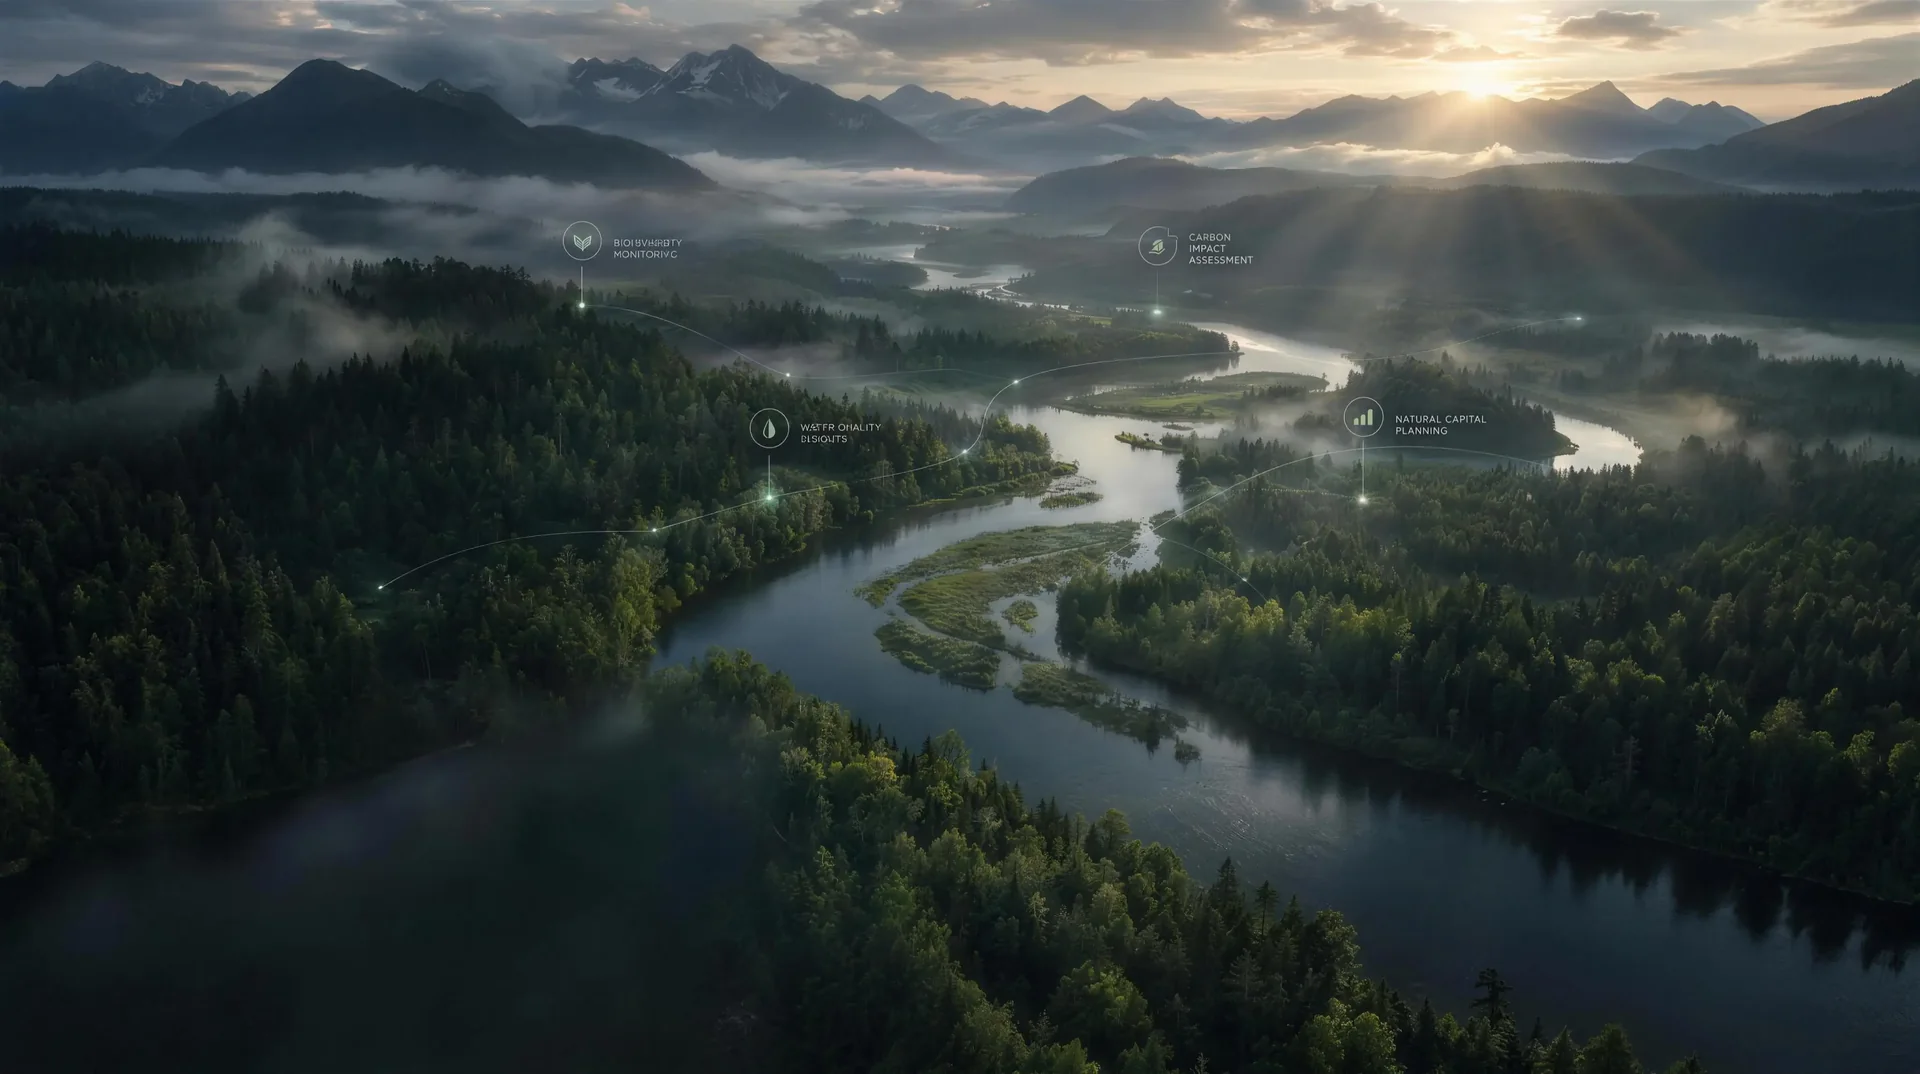
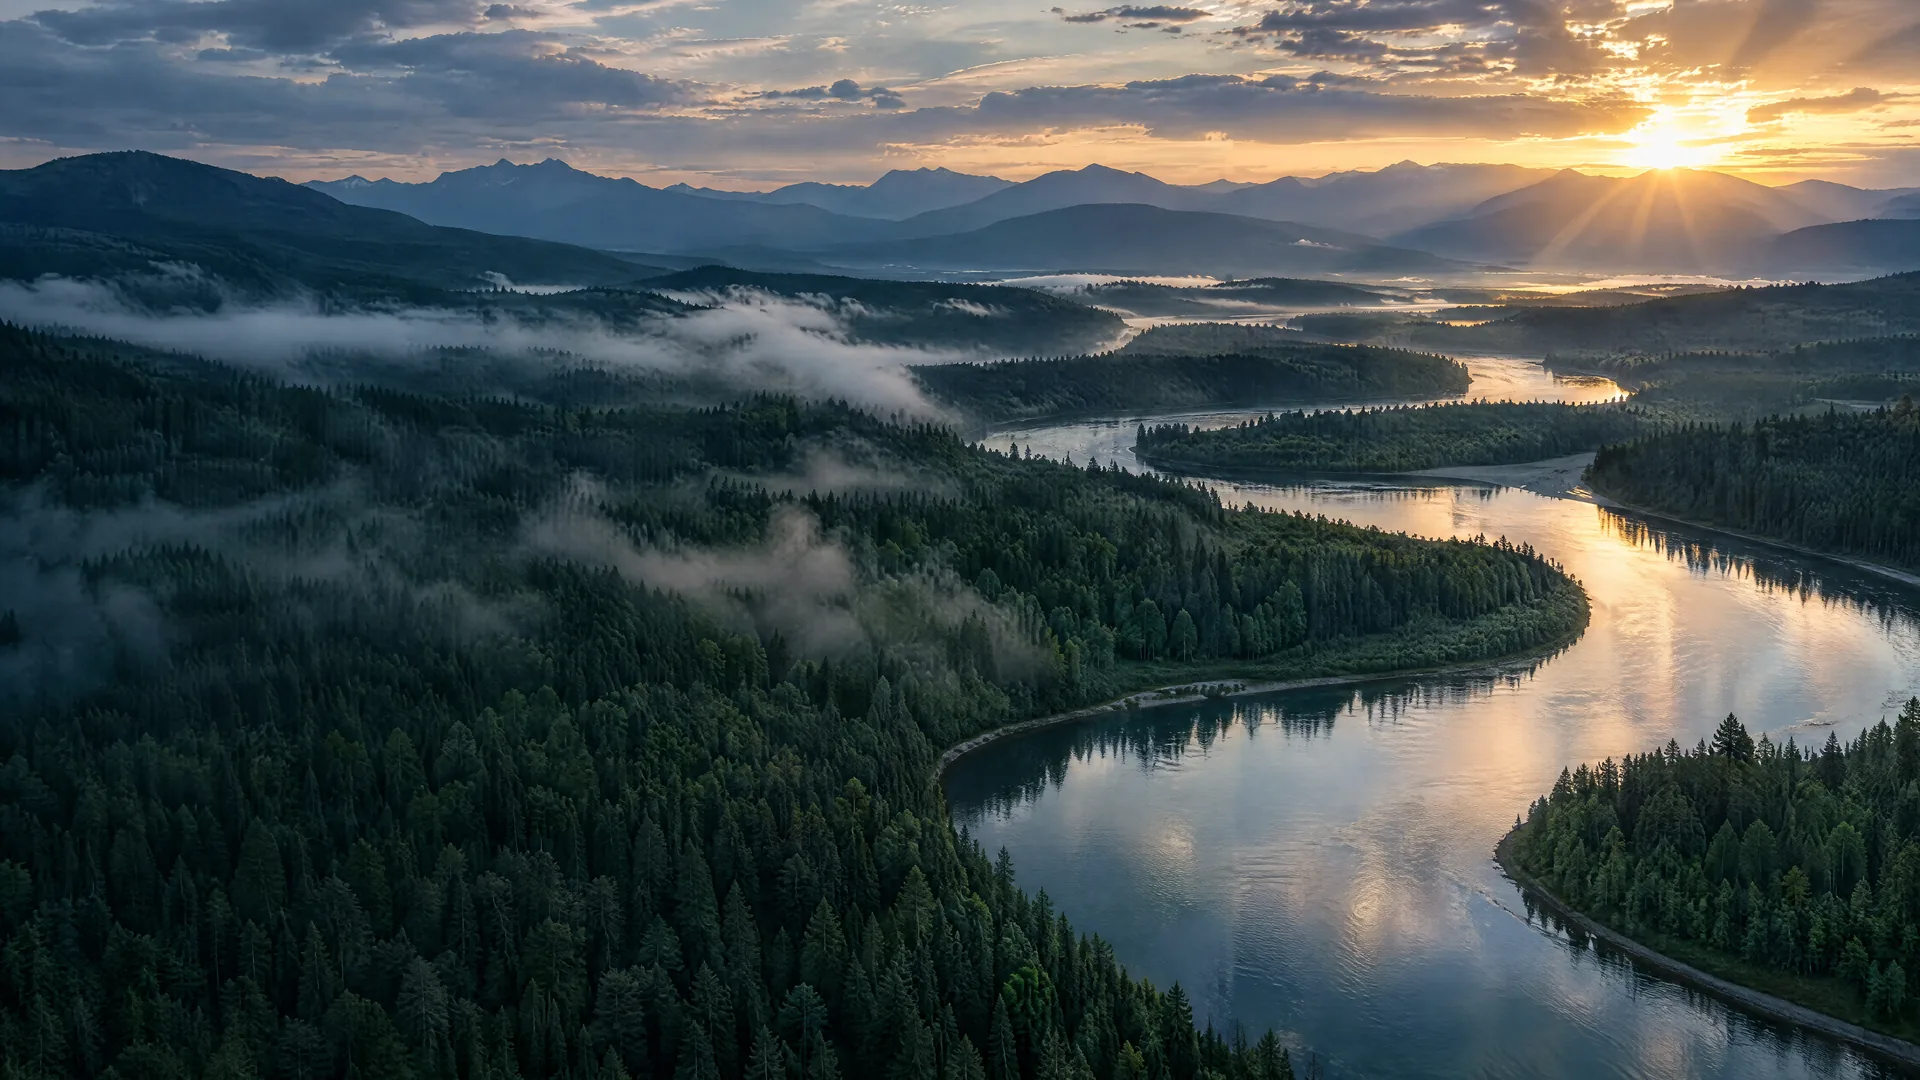
Cover: new scene 3 photo

diff --git a/site/index.html b/site/index.html
@@ -363,7 +363,7 @@ html.bp-pre-on{overflow:hidden}
       <div class="kb">
         <img class="cvr on" data-i="0" srcset="assets/img/cover-1-1920.webp 1920w, assets/img/cover-1-2560.webp 2560w, assets/img/cover-1.webp 3840w" sizes="100vw" src="assets/img/cover-1-2560.webp" alt="Refinery outside Riyadh at sunrise" />
         <img class="cvr" data-i="1" data-srcset="assets/img/cover-2-1920.webp 1920w, assets/img/cover-2-2560.webp 2560w, assets/img/cover-2.webp 3840w" data-sizes="100vw" data-src="assets/img/cover-2-2560.webp" alt="Industrial facility at blue hour" />
-        <img class="cvr" data-i="2" data-srcset="assets/img/cover-3-1920.webp 1920w, assets/img/cover-3-2560.webp 2560w, assets/img/cover-3.webp 3840w" data-sizes="100vw" data-src="assets/img/cover-3-2560.webp" alt="Saudi coastline with environmental monitoring points" />
+        <img class="cvr" data-i="2" data-srcset="assets/img/cover-3-1920.webp 1920w, assets/img/cover-3-2560.webp 2560w, assets/img/cover-3.webp 3840w" data-sizes="100vw" data-src="assets/img/cover-3-2560.webp" alt="Aerial view of a river winding through misty forest at sunrise" />
         <img class="cvr" data-i="3" data-srcset="assets/img/cover-4-1920.webp 1920w, assets/img/cover-4-2560.webp 2560w, assets/img/cover-4.webp 3840w" data-sizes="100vw" data-src="assets/img/cover-4-2560.webp" alt="Refinery and storage tanks in the desert at golden hour" />
       </div>
     </div>

diff --git a/site/js/cover.js b/site/js/cover.js
@@ -173,7 +173,7 @@ function onScroll(){
   load(1);                      /* have the next frame ready before the first change */
 
   /* cover-3 carries its own labelled pins, so ours step aside while it shows */
-  const ANNOTATED = 2;
+  const ANNOTATED = -1;  /* cover-3 is now a clean photo, so the live labels show on every image */
   const net = document.getElementById('net'), mkL = document.getElementById('mkLayer');
   const syncOverlay = n => {
     const hide = (n === ANNOTATED);

diff --git a/build/cover_markup.py b/build/cover_markup.py
@@ -6,7 +6,7 @@ COVER = """<div class="wrap" id="wrap">
       <div class="kb">
         <img class="cvr on" data-i="0" srcset="assets/img/cover-1-1920.webp 1920w, assets/img/cover-1-2560.webp 2560w, assets/img/cover-1.webp 3840w" sizes="100vw" src="assets/img/cover-1-2560.webp" alt="Refinery outside Riyadh at sunrise" />
         <img class="cvr" data-i="1" data-srcset="assets/img/cover-2-1920.webp 1920w, assets/img/cover-2-2560.webp 2560w, assets/img/cover-2.webp 3840w" data-sizes="100vw" data-src="assets/img/cover-2-2560.webp" alt="Industrial facility at blue hour" />
-        <img class="cvr" data-i="2" data-srcset="assets/img/cover-3-1920.webp 1920w, assets/img/cover-3-2560.webp 2560w, assets/img/cover-3.webp 3840w" data-sizes="100vw" data-src="assets/img/cover-3-2560.webp" alt="Saudi coastline with environmental monitoring points" />
+        <img class="cvr" data-i="2" data-srcset="assets/img/cover-3-1920.webp 1920w, assets/img/cover-3-2560.webp 2560w, assets/img/cover-3.webp 3840w" data-sizes="100vw" data-src="assets/img/cover-3-2560.webp" alt="Aerial view of a river winding through misty forest at sunrise" />
         <img class="cvr" data-i="3" data-srcset="assets/img/cover-4-1920.webp 1920w, assets/img/cover-4-2560.webp 2560w, assets/img/cover-4.webp 3840w" data-sizes="100vw" data-src="assets/img/cover-4-2560.webp" alt="Refinery and storage tanks in the desert at golden hour" />
       </div>
     </div>

diff --git a/build/home_ar.py b/build/home_ar.py
@@ -241,7 +241,7 @@ TEXT = [
 ATTR = [
  ("Refinery outside Riyadh at sunrise", "مصفاة خارج الرياض عند شروق الشمس"),
  ("Industrial facility at blue hour", "منشأة صناعية عند الغسق"),
- ("Saudi coastline with environmental monitoring points", "الساحل السعودي مع نقاط رصد بيئي"),
+ ("Aerial view of a river winding through misty forest at sunrise", "منظر جوي لنهر يتعرج بين غابة يلفها الضباب عند شروق الشمس"),
  ("Refinery and storage tanks in the desert at golden hour", "مصفاة وخزانات في الصحراء وقت الغروب"),
  ("Aerial view of the Saudi Red Sea coastline where desert meets protected shoreline",
   "منظر جوي لساحل البحر الأحمر حيث تلتقي الصحراء بالشاطئ المحمي"),
